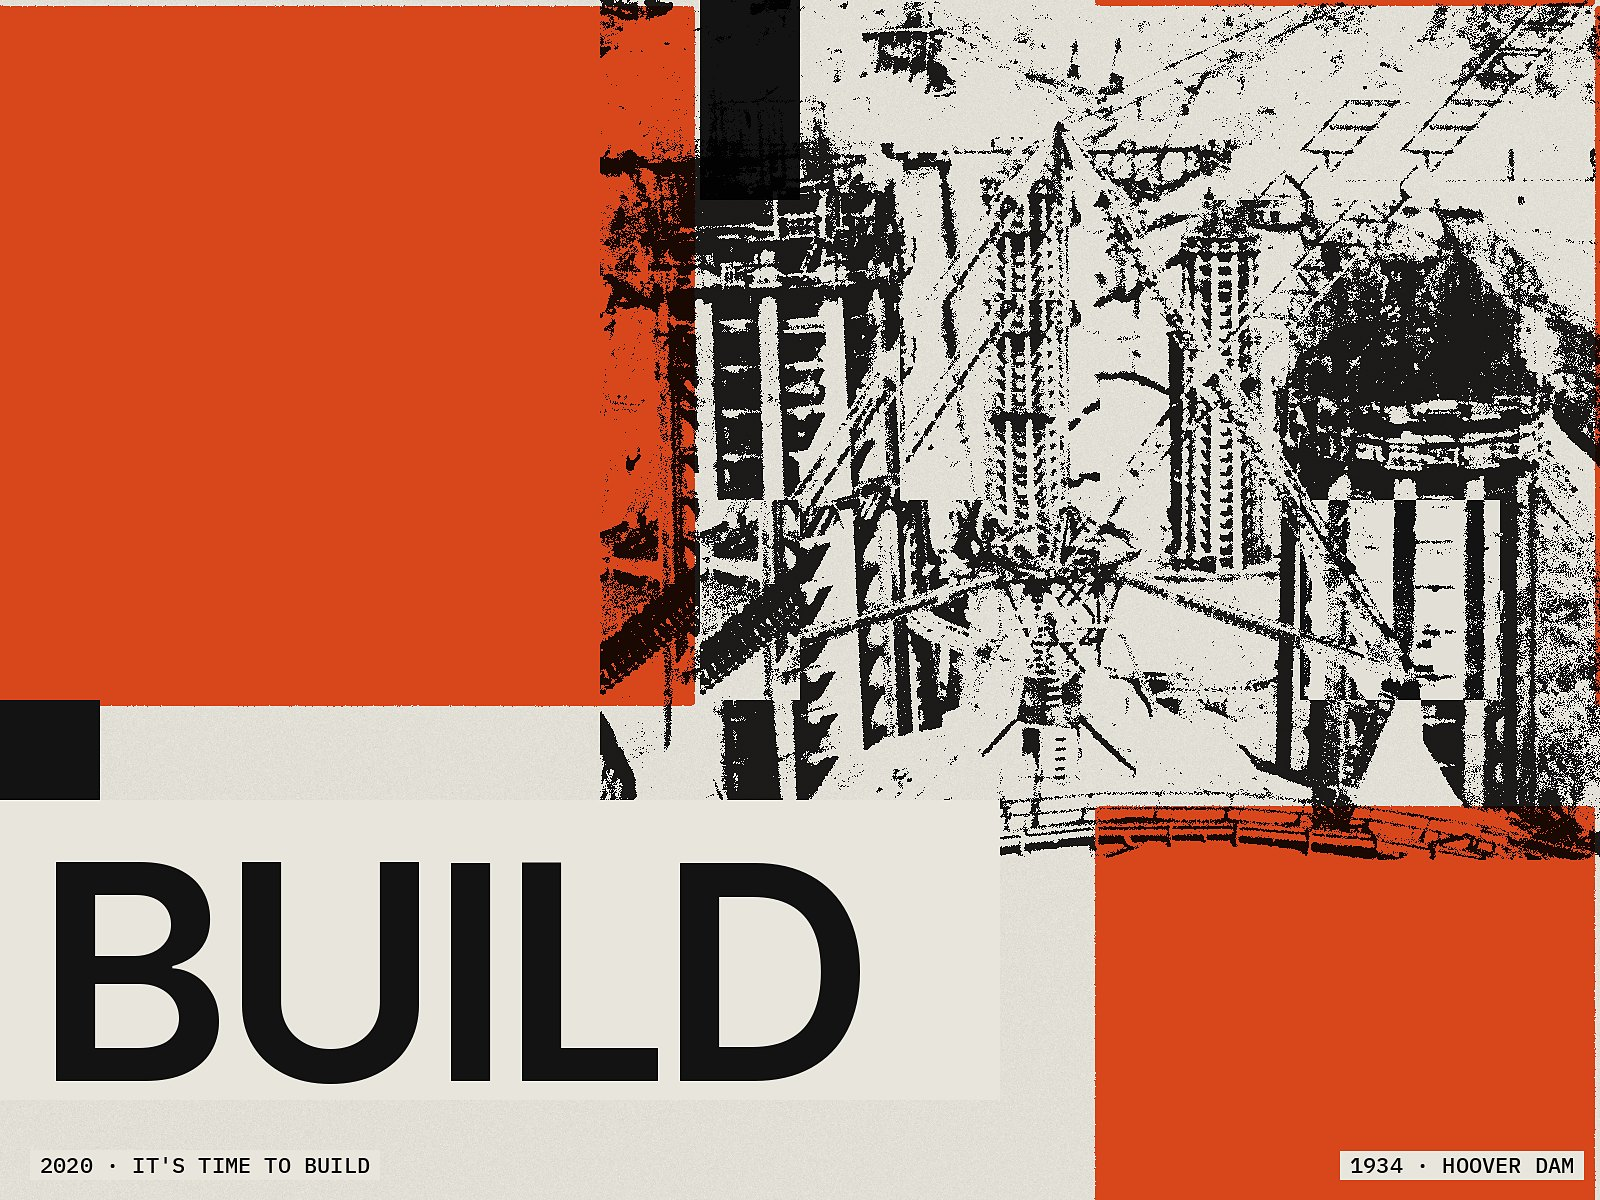
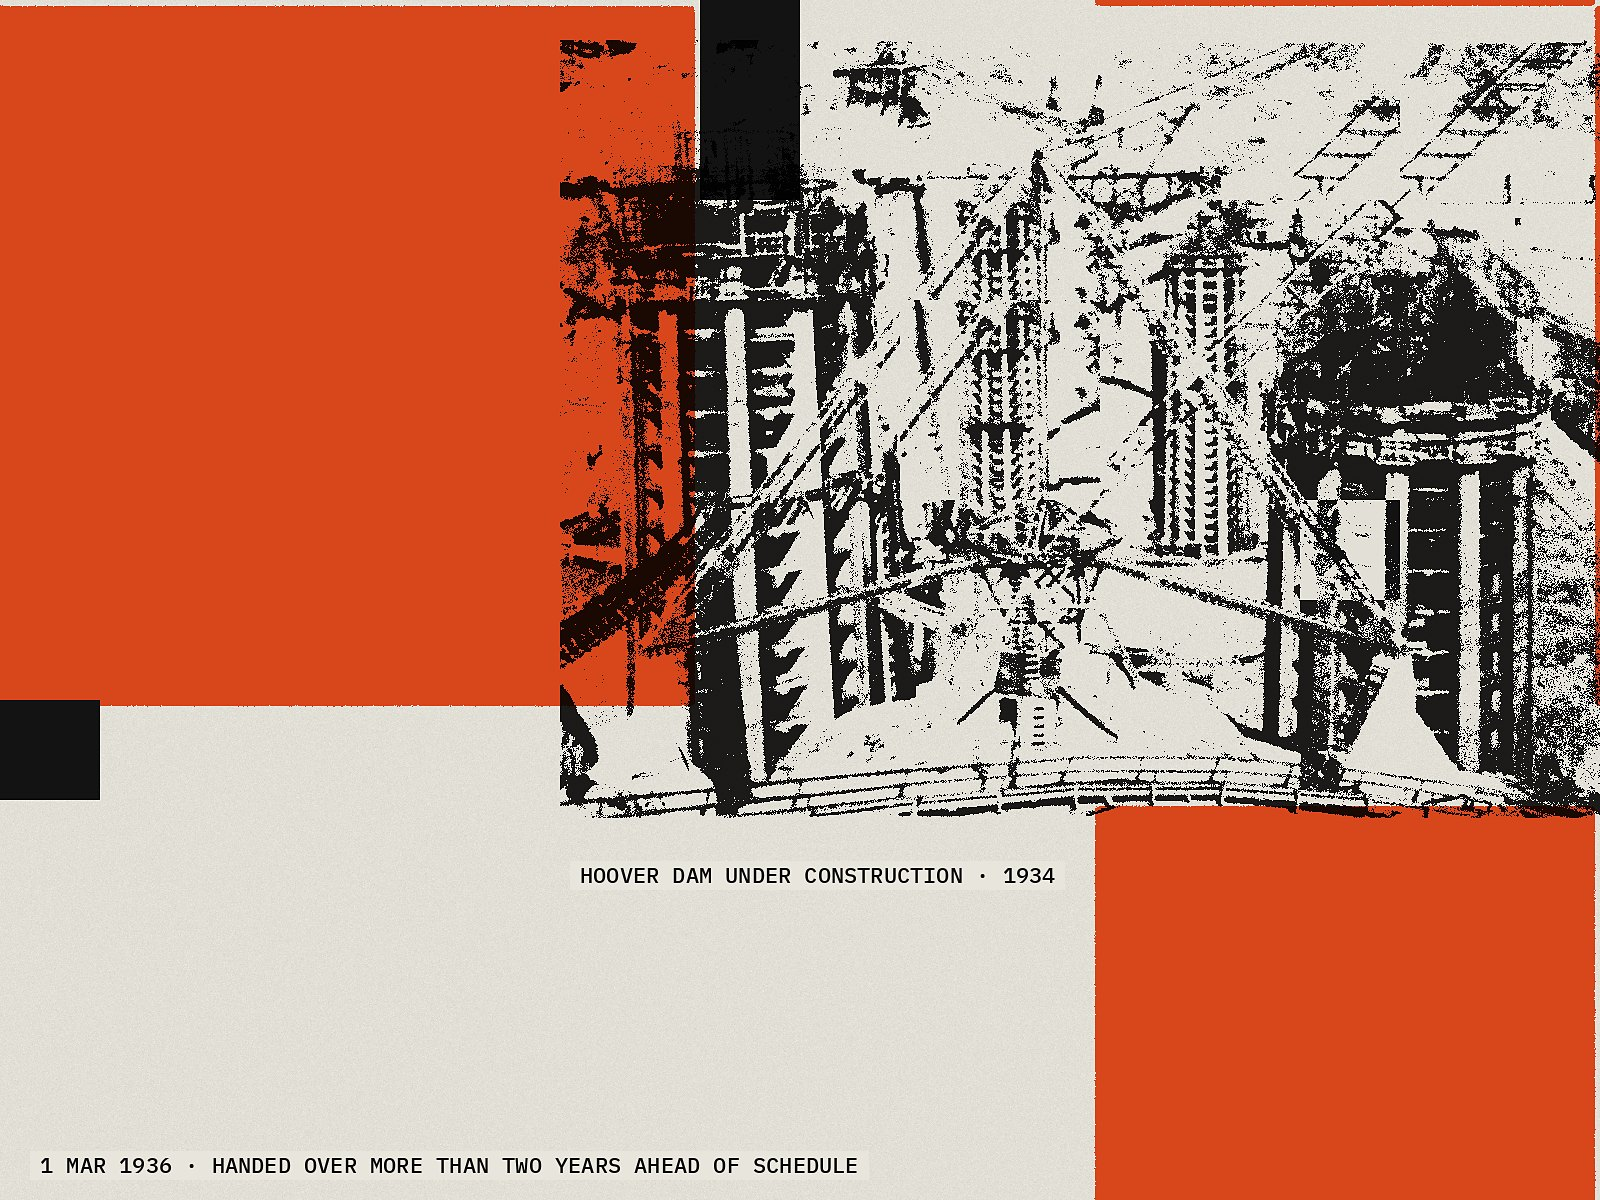
Ism cards: Transhumanism, Singularitarianism, Techno-optimism rebuilt by the guide; page images for four movements
Claude-Session: https://claude.ai/code/session_01Sc1pzyhKsrC3mM6v1oVhk6

diff --git a/scripts/collages.py b/scripts/collages.py
@@ -121,19 +121,17 @@ def render(spec):
 
 ISM, THEME, PAGE = (1600, 1200), (1500, 1000), (1200, 1500)   # PAGE: the vertical image at the top of a page, 4:5, 12 x 15 squares
 SPECS = [
-    dict(id='collage-transhumanism', size=ISM, colour=GREEN,
-         fields=[(0, 1, 8, 9), (9, 0, 7, 6)], black=[(8, 0, 1, 2), (0, 10, 1, 2), (15, 7, 1, 1)],
-         fragments=[dict(img='gilgamesh-tablet-xi.jpg', box=(900, 1000), crop=(0.05, 0.04, 0.95, 0.96), how='screen', level=0.43, at=(0, 150)),
-                    dict(img='tsiolkovsky-free-space.jpg', box=(760, 690), how='halftone', period=9, at=(820, 0))],
-         shift=[(4, 4, 2, 2, 1, -1), (2, 7, 2, 1, -1, 0), (13, 0, 1, 3, 0, 1)], invert=[(11, 2, 2, 2)],
-         type=[dict(slab=(7, 8, 8, 3), parts=[('2045', 330, 760, 790)])],
-         labels=[('C. 1800 BCE · GILGAMESH', 130, 1150), ('1883 · TSIOLKOVSKY', 1230, 700), ('2045 · KURZWEIL', 1230, 742)]),
+    dict(id='collage-transhumanism', size=ISM, colour=GREEN, seed=3,
+         fields=[(0, 1, 9, 10), (10, 0, 6, 5)], black=[(9, 0, 1, 1), (15, 7, 1, 1)],
+         fragments=[dict(img='gilgamesh-tablet-xi.jpg', box=(900, 1040), crop=(0.05, 0.04, 0.95, 0.96), how='screen', level=0.43, at=(0, 60))],
+         shift=[(3, 4, 2, 2, 1, 0), (5, 8, 1, 2, 0, -1)], invert=[(7, 2, 1, 1)],
+         type=[dict(slab=(8, 7, 8, 4), parts=[('2045', 300, 840, 760)])],
+         labels=[('2045 · KURZWEIL, THE SINGULARITY IS NEAR (2005)', 850, 655), ('7TH CENTURY BCE · THE FLOOD TABLET, EPIC OF GILGAMESH', 40, 1150)]),
     dict(id='collage-singularitarianism', size=ISM, colour=GREEN, seed=5,
-         fields=[(0, 5, 7, 7), (9, 0, 7, 5)], black=[(7, 0, 1, 1), (15, 10, 1, 2), (0, 0, 1, 2)],
-         fragments=[dict(img='moores-law-chart.jpg', box=(1180, 980), crop=(0.16, 0.2, 0.92, 0.86), how='screen', level=0.8, at=(420, 20)),
-                    dict(img='sing-ias-computer.jpg', box=(760, 510), crop=(0.0, 0.05, 1.0, 0.95), how='screen', level=0.5, at=(0, 600))],
-         shift=[(11, 3, 2, 2, 0, -1), (8, 6, 2, 1, 1, 0), (2, 8, 2, 2, 1, 0)], invert=[(13, 7, 2, 2)],
-         labels=[('TRANSISTORS PER CHIP · 1970–2020', 990, 1150), ('THE IAS MACHINE · PRINCETON', 40, 1150)]),
+         fields=[(0, 1, 8, 9), (11, 7, 5, 5)], black=[(8, 0, 1, 1), (15, 3, 1, 1)],
+         fragments=[dict(img='sing-ias-computer.jpg', box=(1100, 661), crop=(0.0, 0.05, 1.0, 0.95), how='screen', level=0.5, at=(60, 200))],
+         shift=[(3, 3, 2, 2, 1, 0), (8, 5, 2, 1, 0, 1)], invert=[(6, 2, 1, 1)],
+         labels=[('1958 · ULAM RECALLS VON NEUMANN ON AN "ESSENTIAL SINGULARITY"', 60, 930), ("THE IAS MACHINE · VON NEUMANN'S COMPUTER, PRINCETON", 40, 1150)]),
     dict(id='collage-rationalism', size=ISM, colour=PINK, seed=8,
          fields=[(0, 0, 6, 8), (10, 6, 6, 6)], black=[(6, 10, 2, 2), (15, 0, 1, 1), (9, 0, 1, 2)],
          fragments=[dict(img='frankenstein-1831.jpg', box=(840, 1080), crop=(0.0, 0.2, 1.0, 0.98), how='screen', level=0.5, at=(0, 120)),
@@ -153,11 +151,9 @@ SPECS = [
          labels=[('1910 · BOCCIONI, THE CITY RISES', 40, 1150), ('2022 · EFFECTIVE ACCELERATIONISM', 1160, 760)]),
     dict(id='collage-techno-optimism', size=ISM, colour=ORANGE, seed=34,
          fields=[(0, 0, 7, 7), (11, 8, 5, 4)], black=[(7, 0, 1, 2), (0, 7, 1, 1)],
-         fragments=[dict(img='hoover-dam-1934.jpg', box=(1000, 860), how='screen', level=0.5, at=(600, 0))],
-         shift=[(9, 3, 2, 2, 0, 1), (12, 1, 2, 1, -1, 0), (7, 5, 1, 2, 1, 0)], invert=[(13, 5, 2, 2)],
-         type=[dict(slab=(0, 8, 10, 3), parts=[('BUILD', 300, 40, 790)])],
-         labels=[("2020 · IT'S TIME TO BUILD", 40, 1150), ('1934 · HOOVER DAM', 1350, 1150)]),
-    # Themes: black and grey only
+         fragments=[dict(img='hoover-dam-1934.jpg', box=(1040, 778), how='screen', level=0.5, at=(560, 40))],
+         shift=[(9, 3, 2, 2, 0, 1), (12, 1, 2, 1, -1, 0)], invert=[(13, 5, 1, 1)],
+         labels=[('HOOVER DAM UNDER CONSTRUCTION · 1934', 580, 860), ('1 MAR 1936 · HANDED OVER MORE THAN TWO YEARS AHEAD OF SCHEDULE', 40, 1150)]),
     dict(id='collage-abundance', size=THEME, colour=GREY, seed=55,
          fields=[(0, 0, 8, 9)], black=[(8, 0, 1, 2), (14, 3, 1, 1)],
          fragments=[dict(img='electricity-meter.jpg', box=(760, 760), crop=(0.04, 0.06, 0.96, 0.86), how='screen', level=0.5, at=(40, 60))],
@@ -233,6 +229,29 @@ SPECS = [
                     dict(img='sing-ias-computer.jpg', box=(700, 420), crop=(0.0, 0.05, 1.0, 0.95), how='screen', level=0.5, at=(500, 980))],
          shift=[(2, 4, 2, 2, 1, 0), (4, 8, 2, 2, 0, -1)], invert=[(5, 2, 1, 1)],
          labels=[('1812 · THE LEADER OF THE LUDDITES', 40, 1440)]),
+    # Vertical page images for the isms (4:5)
+    dict(id='collage-transhumanism-tall', size=PAGE, colour=GREEN, seed=3,
+         fields=[(0, 0, 9, 10), (9, 11, 3, 4)], black=[(10, 1, 1, 1), (0, 12, 1, 1)],
+         fragments=[dict(img='gilgamesh-tablet-xi.jpg', box=(840, 971), crop=(0.05, 0.04, 0.95, 0.96), how='screen', level=0.43, at=(40, 40))],
+         shift=[(3, 3, 2, 2, 1, 0), (5, 7, 1, 2, 0, -1)], invert=[(6, 2, 1, 1)],
+         type=[dict(slab=(3, 10, 9, 3), parts=[('2045', 300, 380, 990)])],
+         labels=[('2045 · KURZWEIL, THE SINGULARITY IS NEAR (2005)', 385, 1325), ('7TH CENTURY BCE · THE FLOOD TABLET, EPIC OF GILGAMESH', 40, 1440)]),
+    dict(id='collage-singularitarianism-tall', size=PAGE, colour=GREEN, seed=5,
+         fields=[(0, 2, 9, 9), (9, 11, 3, 4)], black=[(10, 1, 1, 1), (0, 13, 1, 1)],
+         fragments=[dict(img='sing-ias-computer.jpg', box=(1120, 673), crop=(0.0, 0.05, 1.0, 0.95), how='screen', level=0.5, at=(40, 380))],
+         shift=[(3, 5, 2, 2, 1, 0), (8, 7, 2, 1, 0, 1)], invert=[(6, 4, 1, 1)],
+         labels=[('1958 · ULAM RECALLS VON NEUMANN ON AN "ESSENTIAL SINGULARITY"', 40, 1130), ("THE IAS MACHINE · VON NEUMANN'S COMPUTER, PRINCETON", 40, 1440)]),
+    dict(id='collage-effective-accelerationism-tall', size=PAGE, colour=ORANGE, seed=21,
+         fields=[(0, 5, 8, 9), (9, 0, 3, 4)], black=[(8, 1, 1, 2), (11, 13, 1, 1)],
+         fragments=[dict(img='boccioni-city-rises.jpg', box=(1200, 797), how='screen', level=0.52, at=(0, 120))],
+         shift=[(3, 2, 2, 2, 1, 0), (6, 4, 2, 2, 0, -1), (9, 5, 2, 1, -1, 0)], invert=[(1, 4, 2, 2)],
+         type=[dict(slab=(2, 10, 10, 3), parts=[('e/acc', 300, 300, 970)])],
+         labels=[('2022 · EFFECTIVE ACCELERATIONISM', 305, 1325), ('1910 · BOCCIONI, THE CITY RISES', 40, 1440)]),
+    dict(id='collage-techno-optimism-tall', size=PAGE, colour=ORANGE, seed=34,
+         fields=[(0, 0, 8, 6), (9, 9, 3, 5)], black=[(8, 0, 1, 1), (0, 13, 1, 1)],
+         fragments=[dict(img='hoover-dam-1934.jpg', box=(1120, 838), how='screen', level=0.5, at=(40, 200))],
+         shift=[(4, 4, 2, 2, 0, 1), (8, 2, 2, 1, -1, 0)], invert=[(9, 6, 1, 1)],
+         labels=[('HOOVER DAM UNDER CONSTRUCTION · 1934', 40, 1090), ('1 MAR 1936 · HANDED OVER MORE THAN TWO YEARS AHEAD OF SCHEDULE', 40, 1440)]),
 ]
 
 if __name__ == '__main__':

diff --git a/WORKPLAN.md b/WORKPLAN.md
@@ -41,6 +41,7 @@ Every session starts here: find the first stage that is not done, do the next pi
 ## Log
 
 - 2026-11-20: Collage set made for all 13 cards; Abundance rebuilt around an electricity meter (batch 3, 1 image, CC BY-SA 4.0).
+- 2026-11-20: Ism cards rebuilt by the illustration guide, with page images: Transhumanism (Flood Tablet + 2045, label date corrected to 7th century BCE), Singularitarianism (IAS machine + Ulam 1958), Techno-optimism (Hoover Dam, no BUILD; handed over two years early), e/acc kept plus a page image. Rationalism and Effective altruism wait for image batch 5.
 - 2026-11-20: Owner decisions: themes become narrow key words plus a word book (questions dropped as too broad, no critics section); notable figures shown as a folding index of names, no portraits. Questions agent stopped before writing; vocabulary agent continues (branch `words`).
 - 2026-11-20: Home restructured (owner): the six as movements in three family rows, numbered 01–06; no filter above them; themes shown as questions; the critics and the vocabulary get their own sections (filter on the vocabulary). Agents drafting the question pages (branch `questions`) and the vocabulary (branch `words`).
 - 2026-11-20: Vertical page images (4:5, 1200 × 1500) for the seven themes, shown at the top of each theme page (`pageImage`). Fixed stretched photos on The tool, Rights and dignity, Critique and Power; the engine now warns when a box stretches its crop (ism cards still have some, to fix in their rework).

diff --git a/src/content/isms/effective-accelerationism.md b/src/content/isms/effective-accelerationism.md
@@ -6,6 +6,7 @@ ready: true
 summary: Growth in energy, intelligence and capital is the direction of the universe. Technology should be accelerated, not slowed, and fear of it is the real danger.
 includes: [Neoreaction and the network state]
 image: collage-effective-accelerationism
+pageImage: collage-effective-accelerationism-tall
 lead: Effective accelerationism holds that the universe favours the growth of energy and intelligence, so AI should be accelerated, not slowed.
 holders:
   - name: Guillaume Verdon

diff --git a/src/content/isms/singularitarianism.md b/src/content/isms/singularitarianism.md
@@ -6,6 +6,7 @@ ready: true
 summary: Technological change compounds. At some point machine intelligence surpasses ours, and history crosses a threshold beyond which it can no longer be predicted.
 includes: [Successionism]
 image: collage-singularitarianism
+pageImage: collage-singularitarianism-tall
 lead: Singularitarianism holds that machine intelligence will soon overtake ours and keep improving itself, carrying history past a threshold no one can see beyond.
 holders:
   - name: Ray Kurzweil

diff --git a/src/content/isms/techno-optimism.md b/src/content/isms/techno-optimism.md
@@ -6,6 +6,7 @@ ready: true
 summary: Technology and free markets are the engine of human progress. AI will make people richer, healthier and freer, and slowing it down costs lives.
 includes: [Augmentation]
 image: collage-techno-optimism
+pageImage: collage-techno-optimism-tall
 lead: Techno-optimism holds that technology and markets drive human progress, and that AI, if not held back, will make people richer, healthier and more capable.
 holders:
   - name: Marc Andreessen

diff --git a/src/content/isms/transhumanism.md b/src/content/isms/transhumanism.md
@@ -5,6 +5,7 @@ order: 1
 ready: true
 summary: Humans can and should use technology to overcome ageing, illness and the limits of body and mind. AI is the strongest tool yet for becoming more than human.
 image: collage-transhumanism
+pageImage: collage-transhumanism-tall
 lead: Transhumanism holds that the human condition is not fixed. Ageing, illness and the limits of the body and mind are problems that technology can solve, and should.
 holders:
   - name: Humanity+
